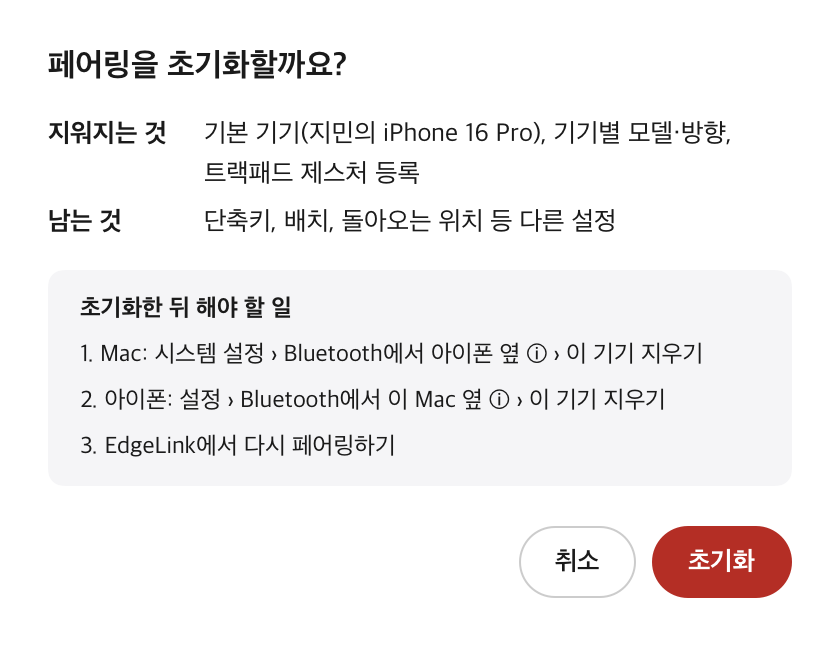
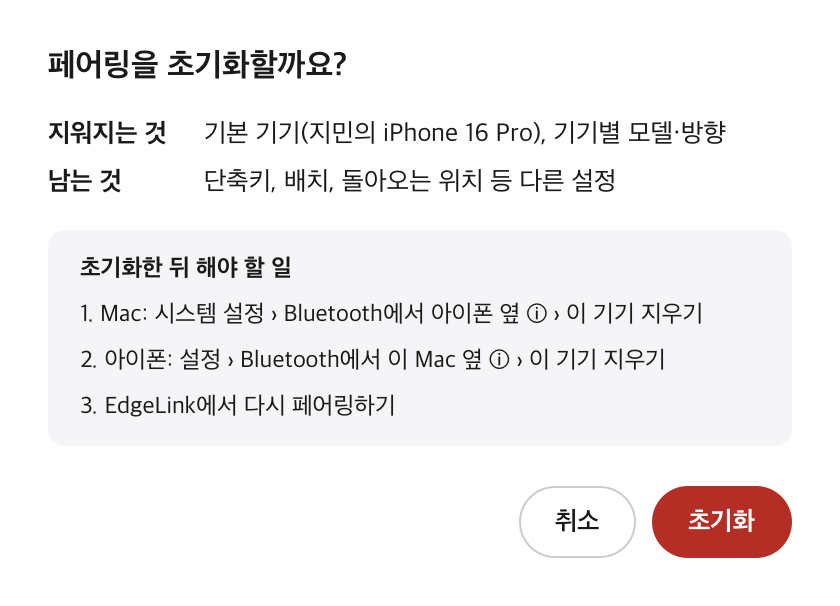
문서: 트랙패드 제스처 설명과 캡처를 빼고 바뀐 화면 캡처 갱신
Claude-Session: https://claude.ai/code/session_01Bu3s8rd4cmbJU2pVqA5rhS

diff --git a/docs/DEVLOG.md b/docs/DEVLOG.md
@@ -2,6 +2,13 @@
 
 날짜별로 결정한 것, 해본 것과 결과, 문제와 해결을 남겨요. 최신이 위에 있어요. 설계 기준은 [DESIGN.md](DESIGN.md)예요.
 
+## 2026-11-07 (트랙패드 제스처 기능 뺌, v0.4.0)
+
+- 사용자 결정으로 트랙패드 제스처를 통째로 뺌. 세 손가락 쓸기 등을 마우스 버튼 4~8로 보내고 아이폰 AssistiveTouch에서 버튼마다 동작을 사용자가 직접 지정해야 동작해서, Mac 쪽에서는 등록 수고를 줄일 방법이 없었다.
+- 뺀 것: 손가락 이벤트로 제스처를 알아내 보내는 코드(`GestureRecognizer`, `performGestureLocked`), 제스처 설정 도우미 창, 설정 › 입력의 트랙패드 제스처 섹션과 아이폰 동작 단축키 5개(앱 전환기·홈·알림 센터·제어 센터·잠금 화면, 같은 버튼 신호라 같이), 아이패드 ⌘H·⌘Tab 옵션, 처음 설정 마지막 단계의 선택 카드, 페어링 초기화의 "트랙패드 제스처 등록" 문구. 시험 4개 삭제(124개).
+- 남긴 것: 아이폰 조작 중 트랙패드 확대·회전·쓸기 이벤트는 계속 Mac에 보내지 않는다. 넘기면 숨은 커서 밑 Mac 창이 확대되거나 뒤로 가기 된다. 외장 마우스 옆 버튼은 그대로 아이폰 버튼 4·5로 간다.
+- 저장된 `gestureMap`·`gestureButtonsRegistered`·`padUsesShortcuts`는 읽지 않기만 한다. 단축키는 `[동작, 단축키, …]` 배열로 저장돼 있어 없어진 동작이 섞이면 통째로 읽기에 실패해 남은 3개까지 기본값이 되므로, 모르는 동작은 건너뛰고 읽게 바꿈.
+
 ## 2026-11-07 (메뉴 막대 아이콘 잘림, v0.3.10)
 
 - macOS 27(골든게이트)로 올린 Mac에서 메뉴 막대 아이폰 아이콘의 위아래가 잘림. 아이콘을 SF Symbol 15pt로 고정해 그렸는데, 아이폰 기호는 세로로 길어 15pt면 높이가 18pt다(26에서 막대 두께 22pt라 들어갔다). 새 macOS에서 메뉴 막대 아이콘 칸이 줄어 잘린 것으로 보인다.

diff --git a/docs/DEVICE-CHECK.md b/docs/DEVICE-CHECK.md
@@ -44,13 +44,10 @@ open build/EdgeLink.app
 - [ ] 아이폰 조작 중 활성 상태 보기에서 EdgeLink를 강제 종료 → Mac 커서가 다시 보이고 움직인다
 - [ ] 다시 켜면 정상 상태로 시작한다
 
-## 4. 제스처·미디어 키
+## 4. 미디어 키·트랙패드
 
-- [ ] 설정 › 입력 › 트랙패드 제스처 설정: AssistiveTouch 기기 목록에 이 Mac이 어떤 이름으로 보이는지 (도우미 문구와 같은지)
-- [ ] "버튼 4 보내기"를 아이폰이 인식한다 → 앱 전환기 등으로 지정
-- [ ] 아이폰 조작 중 세 손가락 위로 쓸기 → 아이폰 앱 전환기 (Mac Mission Control이 먼저 가져가는지도 확인)
-- [ ] 대체 단축키 ⌃⌥⌘↑, ⌃⌥⌘H
 - [ ] 미디어 키를 아이폰으로 켜고 볼륨 키 → 아이폰 볼륨
+- [ ] 아이폰 조작 중 트랙패드로 확대·회전·쓸기를 해도 커서 밑 Mac 창이 확대되거나 넘어가지 않는다
 
 ## 5. 창과 화면
 
@@ -102,6 +99,5 @@ open build/EdgeLink.app
 - [ ] 아이폰 조작 중 모니터 케이블을 빼면 Mac으로 돌아오고, 배치가 다시 계산된다
 - [ ] 외장 키보드의 한/영 키로 아이폰 한/영이 바뀐다 (v0.3.6: Caps Lock처럼 ⌃Space로 보냄)
 - [ ] 외장 마우스: 휠 스크롤 방향·속도, 오른쪽 클릭, 가장자리 밀기 감도
-- [ ] 외장 마우스 옆 버튼(뒤로·앞으로)은 그대로 아이폰 버튼 4·5로 간다. 제스처 버튼을 등록했다면 앱 전환기·홈이 열린다
-- [ ] 트랙패드 제스처: AssistiveTouch 버튼 등록은 기기(Mac)마다 따로라 새 Mac에서 다시 등록해야 한다
+- [ ] 외장 마우스 옆 버튼(뒤로·앞으로)은 그대로 아이폰 버튼 4·5로 간다
 - [ ] 회사 정책(MDM)으로 권한이 막히면 팝오버에 "회사 정책으로 막혀 있을 수 있어요" 안내가 나온다

diff --git a/docs/screens/README.md b/docs/screens/README.md
@@ -66,12 +66,3 @@
 | settings-layout-empty | <img src="settings-layout-empty.png" width="320"> | <img src="settings-layout-empty-dark.png" width="320"> |
 | settings-layout | <img src="settings-layout.png" width="320"> | <img src="settings-layout-dark.png" width="320"> |
 
-## 트랙패드 제스처 설정
-
-| 화면 | 라이트 | 다크 |
-| --- | --- | --- |
-| gesture-setup-done | <img src="gesture-setup-done.png" width="320"> | <img src="gesture-setup-done-dark.png" width="320"> |
-| gesture-setup-offline | <img src="gesture-setup-offline.png" width="320"> | <img src="gesture-setup-offline-dark.png" width="320"> |
-| gesture-setup-sent | <img src="gesture-setup-sent.png" width="320"> | <img src="gesture-setup-sent-dark.png" width="320"> |
-| gesture-setup-test | <img src="gesture-setup-test.png" width="320"> | <img src="gesture-setup-test-dark.png" width="320"> |
-| gesture-setup | <img src="gesture-setup.png" width="320"> | <img src="gesture-setup-dark.png" width="320"> |
